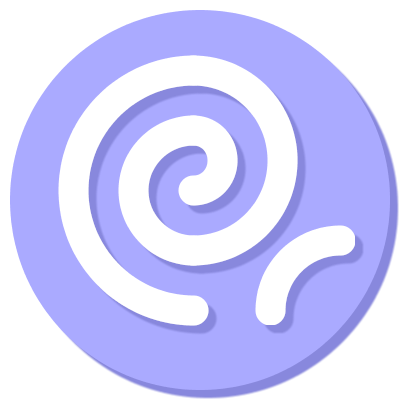
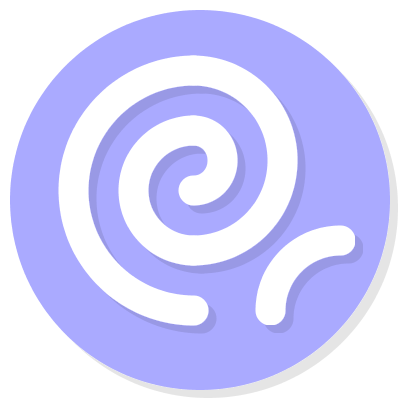
shodow is now semitransparent

Changed region(s): [[0.24, 0.24, 1.0, 1.0], [0.87, 0.21, 0.9, 0.24], [0.21, 0.87, 0.24, 0.9]]

diff --git a/index.html b/index.html
@@ -4,7 +4,7 @@
     <meta charset="utf-8">
     <title>Cirru Logo</title>
     <link rel="stylesheet" href="style.css">
-    <link rel="icon" type="image/png" href="cirru-32x32.png?v=2" />
+    <link rel="icon" type="image/png" href="cirru-32x32.png?v=3" />
     <script defer type="text/javascript" src="bower_components/Snap.svg/dist/snap.svg.js"></script>
     <script defer type="text/javascript" src="src/main.js"></script>
   </head>
